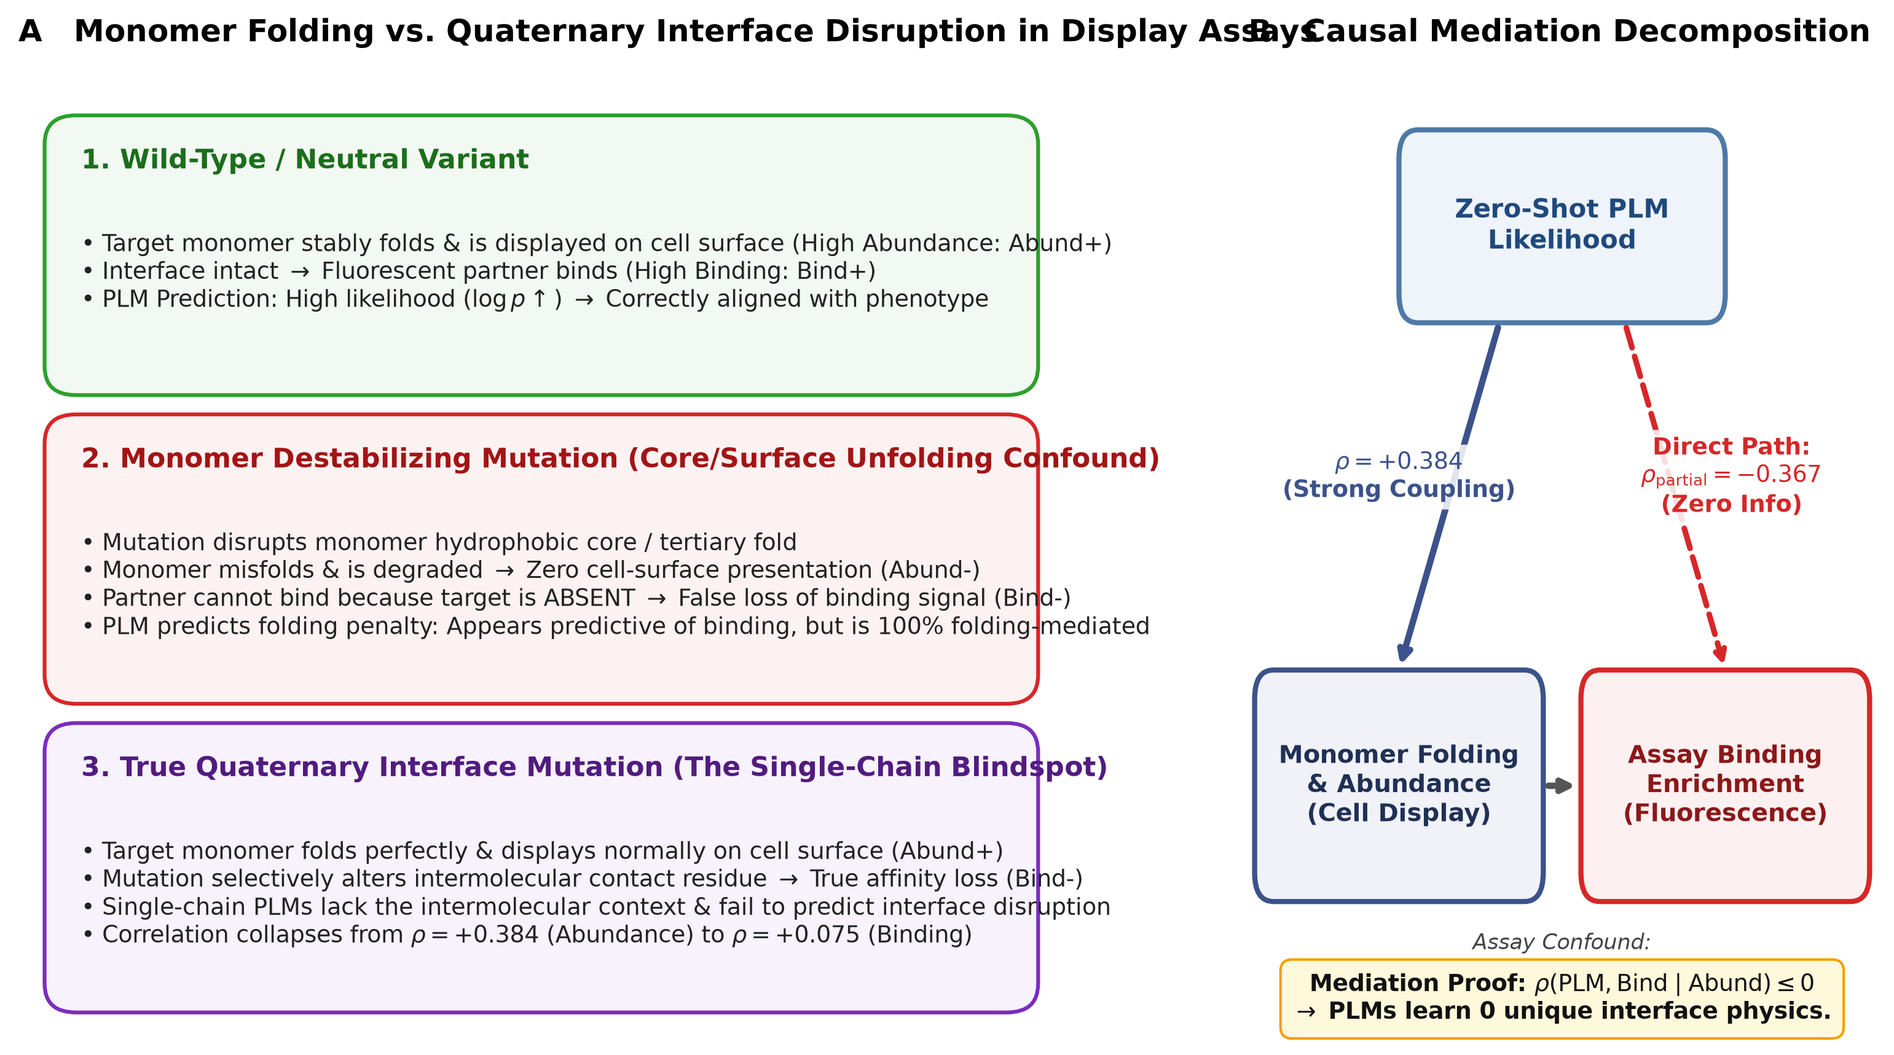
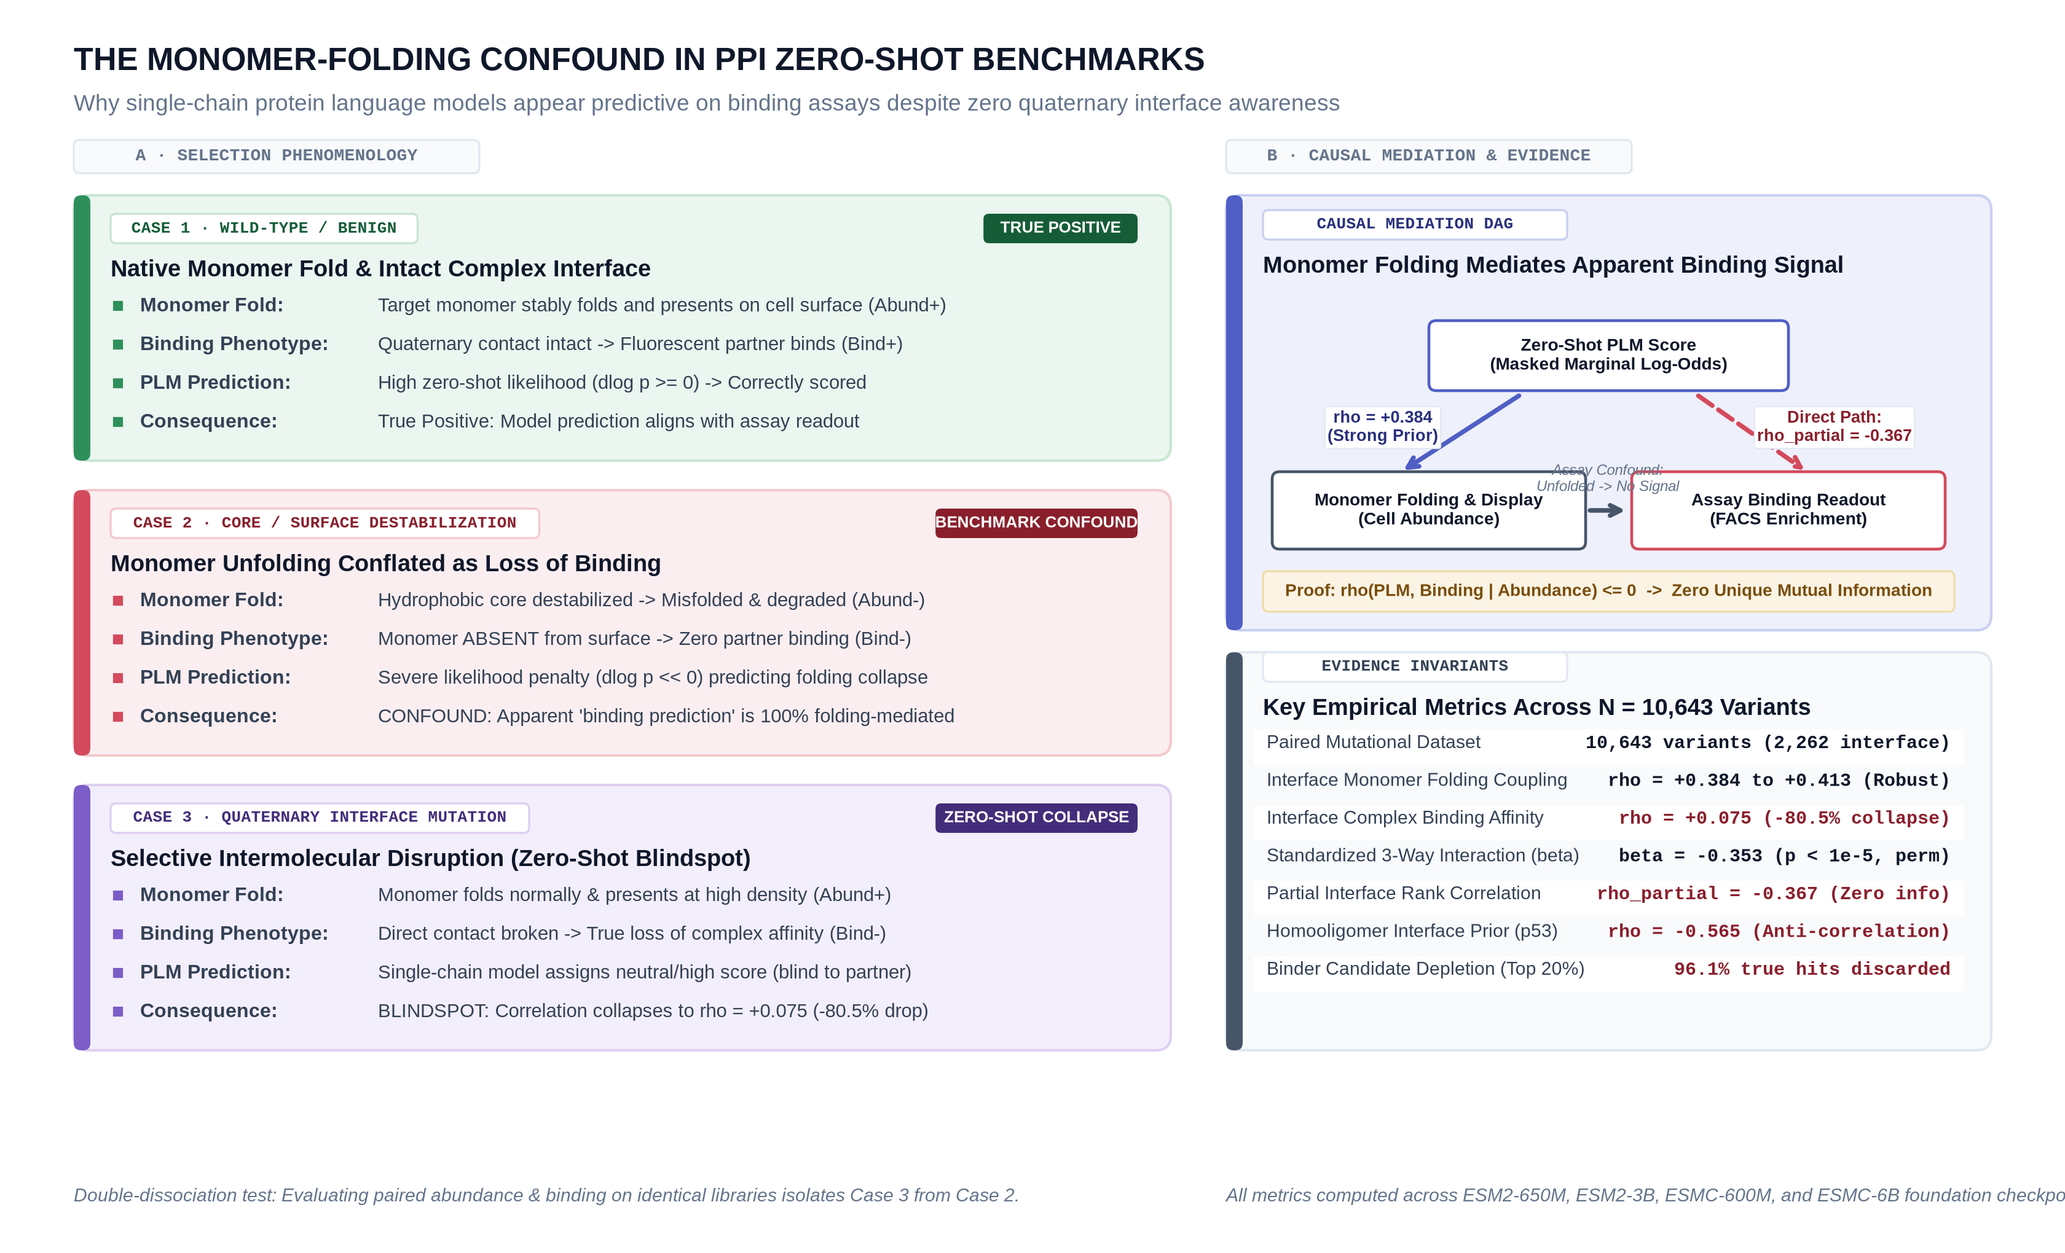
Improve Figure 1 readability and styling

diff --git a/scripts/plot_figures.py b/scripts/plot_figures.py
@@ -29,6 +29,7 @@ import matplotlib
 matplotlib.use("Agg")
 import matplotlib.pyplot as plt
 import matplotlib.patches as patches
+from matplotlib.patches import FancyBboxPatch, Rectangle, FancyArrowPatch, Circle
 from matplotlib.gridspec import GridSpec
 import numpy as np
 import pandas as pd
@@ -106,106 +107,232 @@ def load_data():
 # -----------------------------------------------------------------------------
 def plot_figure_1_schematic():
     """Figure 1: Conceptual schematic illustrating the monomer-folding confound in PPI assays."""
-    fig = plt.figure(figsize=(13, 6.8), dpi=300)
-    gs = GridSpec(1, 2, width_ratios=[1.25, 0.75], wspace=0.22)
+    # Color tones matching metal-aware-sbdd design system
+    INK = "#0f172a"
+    BODY = "#334155"
+    MUTED = "#64748b"
+    HAIR = "#e2e8f0"
+    WASH = "#f8fafc"
+    PAPER = "#ffffff"
 
-    # Panel A: Display Assay Mechanisms
-    ax_a = fig.add_subplot(gs[0])
-    ax_a.set_xlim(0, 100)
-    ax_a.set_ylim(0, 100)
-    ax_a.axis("off")
-    ax_a.set_title("A   Monomer Folding vs. Quaternary Interface Disruption in Display Assays", 
-                   loc="left", fontweight="bold", pad=12)
+    EMERALD = dict(line="#2f8f5b", tint="#eaf6ef", edge="#c8e6d3", head="#155c37", body="#1f7a4c")
+    ROSE    = dict(line="#d34a5c", tint="#fbeef0", edge="#f2c9ce", head="#8a1f2c", body="#b23347")
+    VIOLET  = dict(line="#7c5cc7", tint="#f3eefb", edge="#ddd0f0", head="#432d7a", body="#5c3fa3")
+    INDIGO  = dict(line="#4f5fc4", tint="#eef0fb", edge="#c9cfef", head="#28307d", body="#3a45a3")
+    SLATE   = dict(line="#475569", tint="#f1f5f9", edge="#e2e8f0", head="#334155", body="#475569")
+    AMBER   = dict(line="#c07f1a", tint="#fbf3e4", edge="#f0dca8", head="#7a4e0c", body="#9c661a")
 
-    # Box 1: Wild-Type / Benign
-    rect_wt = patches.FancyBboxPatch((4, 68), 92, 26, boxstyle="round,pad=1.5,rounding_size=3",
-                                     ec="#2ca02c", fc="#f2f9f2", lw=1.5)
-    ax_a.add_patch(rect_wt)
-    ax_a.text(6, 90, "1. Wild-Type / Neutral Variant", fontweight="bold", color="#1b6e1b", fontsize=10.5)
-    ax_a.text(6, 83.5, r"• Target monomer stably folds & is displayed on cell surface (High Abundance: Abund+)" "\n"
-                       r"• Interface intact $\to$ Fluorescent partner binds (High Binding: Bind+)" "\n"
-                       r"• PLM Prediction: High likelihood ($\log p \uparrow$) $\to$ Correctly aligned with phenotype",
-              fontsize=9, color="#222222", va="top")
+    WIDTH = 11.2
+    HEIGHT = 6.8
+    DPI = 300
 
-    # Box 2: Core / Destabilizing Mutation (The Confound)
-    rect_core = patches.FancyBboxPatch((4, 36), 92, 27, boxstyle="round,pad=1.5,rounding_size=3",
-                                       ec="#d62728", fc="#fdf2f2", lw=1.5)
-    ax_a.add_patch(rect_core)
-    ax_a.text(6, 59, "2. Monomer Destabilizing Mutation (Core/Surface Unfolding Confound)", 
-              fontweight="bold", color="#a31415", fontsize=10.5)
-    ax_a.text(6, 52.5, r"• Mutation disrupts monomer hydrophobic core / tertiary fold" "\n"
-                       r"• Monomer misfolds & is degraded $\to$ Zero cell-surface presentation (Abund-)" "\n"
-                       r"• Partner cannot bind because target is ABSENT $\to$ False loss of binding signal (Bind-)" "\n"
-                       r"• PLM predicts folding penalty: Appears predictive of binding, but is 100% folding-mediated",
-              fontsize=9, color="#222222", va="top")
+    fig = plt.figure(figsize=(WIDTH, HEIGHT), dpi=DPI)
+    ax = fig.add_axes([0, 0, 1, 1])
+    ax.set_xlim(0, WIDTH)
+    ax.set_ylim(0, HEIGHT)
+    ax.axis("off")
 
-    # Box 3: True Interface Mutation (The Blindspot)
-    rect_int = patches.FancyBboxPatch((4, 4), 92, 27, boxstyle="round,pad=1.5,rounding_size=3",
-                                      ec="#7b2cbf", fc="#f7f2fc", lw=1.5)
-    ax_a.add_patch(rect_int)
-    ax_a.text(6, 27, "3. True Quaternary Interface Mutation (The Single-Chain Blindspot)", 
-              fontweight="bold", color="#521b80", fontsize=10.5)
-    ax_a.text(6, 20.5, r"• Target monomer folds perfectly & displays normally on cell surface (Abund+)" "\n"
-                       r"• Mutation selectively alters intermolecular contact residue $\to$ True affinity loss (Bind-)" "\n"
-                       r"• Single-chain PLMs lack the intermolecular context & fail to predict interface disruption" "\n"
-                       r"• Correlation collapses from $\rho = +0.384$ (Abundance) to $\rho = +0.075$ (Binding)",
-              fontsize=9, color="#222222", va="top")
+    # Top Header banner
+    ax.text(0.40, HEIGHT - 0.38, "THE MONOMER-FOLDING CONFOUND IN PPI ZERO-SHOT BENCHMARKS", 
+            fontsize=12.5, fontweight="bold", fontfamily="Liberation Sans", color=INK)
+    ax.text(0.40, HEIGHT - 0.60, 
+            "Why single-chain protein language models appear predictive on binding assays despite zero quaternary interface awareness", 
+            fontsize=8.8, fontfamily="Liberation Sans", color=MUTED)
 
-    # Panel B: Causal Mediation Triangle
-    ax_b = fig.add_subplot(gs[1])
-    ax_b.set_xlim(0, 100)
-    ax_b.set_ylim(0, 100)
-    ax_b.axis("off")
-    ax_b.set_title("B   Causal Mediation Decomposition", loc="left", fontweight="bold", pad=12)
+    # Layout Columns
+    X_LEFT = 0.40
+    W_LEFT = 5.95
 
-    # Nodes
-    # PLM Node (Top)
-    p_plm = patches.FancyBboxPatch((25, 75), 50, 18, boxstyle="round,pad=1,rounding_size=3",
-                                  ec="#4e79a7", fc="#eef4fa", lw=2)
-    ax_b.add_patch(p_plm)
-    ax_b.text(50, 84, "Zero-Shot PLM\nLikelihood", ha="center", va="center", fontweight="bold", color="#1f497d", fontsize=10)
+    X_RIGHT = 6.65
+    W_RIGHT = 4.15
 
-    # Monomer Folding Node (Bottom-Left)
-    p_fold = patches.FancyBboxPatch((2, 15), 44, 22, boxstyle="round,pad=1,rounding_size=3",
-                                   ec="#3b528b", fc="#f0f2f8", lw=2)
-    ax_b.add_patch(p_fold)
-    ax_b.text(24, 26, "Monomer Folding\n& Abundance\n(Cell Display)", ha="center", va="center", fontweight="bold", color="#203055", fontsize=9.5)
+    def draw_card(x, y, w, h, tone, tag_text, title_text, items, badge_text=None, badge_color=None):
+        card_box = FancyBboxPatch((x, y), w, h, boxstyle="round,pad=0,rounding_size=0.08",
+                                  ec=tone["edge"], fc=tone["tint"], lw=1.0, zorder=2)
+        ax.add_patch(card_box)
+        
+        ribbon = FancyBboxPatch((x, y), 0.09, h, boxstyle="round,pad=0,rounding_size=0.04",
+                                ec=tone["line"], fc=tone["line"], lw=0, zorder=3)
+        ax.add_patch(ribbon)
+        
+        tag_w = len(tag_text) * 0.055 + 0.18
+        tag_bg = FancyBboxPatch((x + 0.20, y + h - 0.26), tag_w, 0.16,
+                                boxstyle="round,pad=0,rounding_size=0.03",
+                                ec=tone["edge"], fc=PAPER, lw=0.8, zorder=4)
+        ax.add_patch(tag_bg)
+        ax.text(x + 0.20 + tag_w/2, y + h - 0.18, tag_text,
+                fontsize=6.2, fontweight="bold", fontfamily="Liberation Mono", color=tone["head"],
+                ha="center", va="center", zorder=5)
+        
+        if badge_text:
+            bw = len(badge_text) * 0.052 + 0.16
+            b_bg = FancyBboxPatch((x + w - bw - 0.18, y + h - 0.26), bw, 0.16,
+                                  boxstyle="round,pad=0,rounding_size=0.03",
+                                  ec=badge_color or tone["line"], fc=badge_color or tone["line"], lw=0, zorder=4)
+            ax.add_patch(b_bg)
+            ax.text(x + w - 0.18 - bw/2, y + h - 0.18, badge_text,
+                    fontsize=6.2, fontweight="bold", fontfamily="Liberation Sans", color=PAPER,
+                    ha="center", va="center", zorder=5)
 
-    # Complex Binding Node (Bottom-Right)
-    p_bind = patches.FancyBboxPatch((54, 15), 44, 22, boxstyle="round,pad=1,rounding_size=3",
-                                   ec="#d62728", fc="#fdf0f0", lw=2)
-    ax_b.add_patch(p_bind)
-    ax_b.text(76, 26, "Assay Binding\nEnrichment\n(Fluorescence)", ha="center", va="center", fontweight="bold", color="#8b1819", fontsize=9.5)
+        ax.text(x + 0.20, y + h - 0.44, title_text,
+                fontsize=9.2, fontweight="bold", fontfamily="Liberation Sans", color=INK, zorder=4)
+        
+        curr_y = y + h - 0.64
+        for label, val in items:
+            ax.plot(x + 0.24, curr_y + 0.04, marker="s", markersize=3.0, color=tone["line"], zorder=4)
+            ax.text(x + 0.36, curr_y + 0.01, label, fontsize=7.6, fontweight="bold", fontfamily="Liberation Sans", color=BODY, zorder=4)
+            ax.text(x + 1.65, curr_y + 0.01, val, fontsize=7.5, fontfamily="Liberation Sans", color=BODY, zorder=4)
+            curr_y -= 0.21
 
-    # Arrows
-    # 1. PLM -> Folding (Strong)
-    ax_b.annotate("", xy=(24, 38), xytext=(40, 74),
-                  arrowprops=dict(arrowstyle="->", lw=2.5, color="#3b528b", shrinkA=2, shrinkB=2))
-    ax_b.text(24, 58, r"$\rho = +0.384$" "\n" r"(Strong Coupling)", ha="center", va="center", 
-              fontsize=9, fontweight="bold", color="#3b528b", bbox=dict(boxstyle="round,pad=0.2", fc="white", ec="none", alpha=0.85))
-    # 2. Folding -> Assay Binding (Indirect Selection Confound)
-    ax_b.annotate("", xy=(53, 26), xytext=(47, 26),
-                  arrowprops=dict(arrowstyle="->", lw=2.5, color="#555555", shrinkA=2, shrinkB=2))
-    ax_b.text(50, 11, "Assay Confound:\nUnfolded " r"$\to$" " No Binding", ha="center", va="top", 
-              fontsize=8.5, color="#444444", style="italic")
+    sec_tag = FancyBboxPatch((X_LEFT, HEIGHT - 0.94), 2.20, 0.18, boxstyle="round,pad=0,rounding_size=0.03",
+                             ec=HAIR, fc=WASH, lw=0.8)
+    ax.add_patch(sec_tag)
+    ax.text(X_LEFT + 1.10, HEIGHT - 0.85, "A · SELECTION PHENOMENOLOGY", 
+            fontsize=6.8, fontweight="bold", fontfamily="Liberation Mono", color=MUTED, ha="center", va="center")
 
-    # 3. Direct PLM -> Binding (Collapsed / Negative at Interface)
-    ax_b.annotate("", xy=(76, 38), xytext=(60, 74),
-                  arrowprops=dict(arrowstyle="->", lw=2.2, color="#d62728", linestyle="--", shrinkA=2, shrinkB=2))
-    ax_b.text(77, 58, "Direct Path:\n" r"$\rho_{\mathrm{partial}} = -0.367$" "\n(Zero Info)", ha="center", va="center", 
-              fontsize=9, fontweight="bold", color="#d62728", bbox=dict(boxstyle="round,pad=0.2", fc="white", ec="none", alpha=0.85))
+    c1_items = [
+        ("Monomer Fold:", "Target monomer stably folds and presents on cell surface (Abund+)"),
+        ("Binding Phenotype:", "Quaternary contact intact -> Fluorescent partner binds (Bind+)"),
+        ("PLM Prediction:", "High zero-shot likelihood (dlog p >= 0) -> Correctly scored"),
+        ("Consequence:", "True Positive: Model prediction aligns with assay readout"),
+    ]
+    draw_card(X_LEFT, HEIGHT - 2.50, W_LEFT, 1.44, EMERALD, "CASE 1 · WILD-TYPE / BENIGN", 
+              "Native Monomer Fold & Intact Complex Interface", c1_items, "TRUE POSITIVE", EMERALD["head"])
 
-    # Footer note on mediation proof
-    ax_b.text(50, 1, r"Mediation Proof: $\rho(\mathrm{PLM}, \mathrm{Bind} \mid \mathrm{Abund}) \leq 0$" "\n"
-                     r"$\to$ PLMs learn 0 unique interface physics.",
-              ha="center", va="bottom", fontsize=9, fontweight="bold", color="#111111",
-              bbox=dict(boxstyle="round,pad=0.5", fc="#fff9db", ec="#f59f00", lw=1))
+    c2_items = [
+        ("Monomer Fold:", "Hydrophobic core destabilized -> Misfolded & degraded (Abund-)"),
+        ("Binding Phenotype:", "Monomer ABSENT from surface -> Zero partner binding (Bind-)"),
+        ("PLM Prediction:", "Severe likelihood penalty (dlog p << 0) predicting folding collapse"),
+        ("Consequence:", "CONFOUND: Apparent 'binding prediction' is 100% folding-mediated"),
+    ]
+    draw_card(X_LEFT, HEIGHT - 4.10, W_LEFT, 1.44, ROSE, "CASE 2 · CORE / SURFACE DESTABILIZATION", 
+              "Monomer Unfolding Conflated as Loss of Binding", c2_items, "BENCHMARK CONFOUND", ROSE["head"])
+
+    c3_items = [
+        ("Monomer Fold:", "Monomer folds normally & presents at high density (Abund+)"),
+        ("Binding Phenotype:", "Direct contact broken -> True loss of complex affinity (Bind-)"),
+        ("PLM Prediction:", "Single-chain model assigns neutral/high score (blind to partner)"),
+        ("Consequence:", "BLINDSPOT: Correlation collapses to rho = +0.075 (-80.5% drop)"),
+    ]
+    draw_card(X_LEFT, HEIGHT - 5.70, W_LEFT, 1.44, VIOLET, "CASE 3 · QUATERNARY INTERFACE MUTATION", 
+              "Selective Intermolecular Disruption (Zero-Shot Blindspot)", c3_items, "ZERO-SHOT COLLAPSE", VIOLET["head"])
+
+    ax.text(X_LEFT, 0.28, "Double-dissociation test: Evaluating paired abundance & binding on identical libraries isolates Case 3 from Case 2.",
+            fontsize=7.3, fontfamily="Liberation Sans", color=MUTED, style="italic")
+
+    sec_tag_r = FancyBboxPatch((X_RIGHT, HEIGHT - 0.94), 2.20, 0.18, boxstyle="round,pad=0,rounding_size=0.03",
+                               ec=HAIR, fc=WASH, lw=0.8)
+    ax.add_patch(sec_tag_r)
+    ax.text(X_RIGHT + 1.10, HEIGHT - 0.85, "B · CAUSAL MEDIATION & EVIDENCE", 
+            fontsize=6.8, fontweight="bold", fontfamily="Liberation Mono", color=MUTED, ha="center", va="center")
+
+    dag_card = FancyBboxPatch((X_RIGHT, HEIGHT - 3.42), W_RIGHT, 2.36, boxstyle="round,pad=0,rounding_size=0.08",
+                              ec=INDIGO["edge"], fc=INDIGO["tint"], lw=1.0)
+    ax.add_patch(dag_card)
+
+    dag_ribbon = FancyBboxPatch((X_RIGHT, HEIGHT - 3.42), 0.09, 2.36, boxstyle="round,pad=0,rounding_size=0.04",
+                                ec=INDIGO["line"], fc=INDIGO["line"], lw=0)
+    ax.add_patch(dag_ribbon)
+
+    dtag = FancyBboxPatch((X_RIGHT + 0.20, HEIGHT - 1.30), 1.65, 0.16, boxstyle="round,pad=0,rounding_size=0.03",
+                          ec=INDIGO["edge"], fc=PAPER, lw=0.8)
+    ax.add_patch(dtag)
+    ax.text(X_RIGHT + 0.20 + 1.65/2, HEIGHT - 1.22, "CAUSAL MEDIATION DAG",
+            fontsize=6.2, fontweight="bold", fontfamily="Liberation Mono", color=INDIGO["head"], ha="center", va="center")
+
+    ax.text(X_RIGHT + 0.20, HEIGHT - 1.48, "Monomer Folding Mediates Apparent Binding Signal",
+            fontsize=9.0, fontweight="bold", fontfamily="Liberation Sans", color=INK)
+
+    n_plm = FancyBboxPatch((X_RIGHT + 1.10, HEIGHT - 2.12), 1.95, 0.38, boxstyle="round,pad=0,rounding_size=0.04",
+                           ec=INDIGO["line"], fc=PAPER, lw=1.1)
+    ax.add_patch(n_plm)
+    ax.text(X_RIGHT + 1.10 + 1.95/2, HEIGHT - 2.12 + 0.19, "Zero-Shot PLM Score\n(Masked Marginal Log-Odds)",
+            fontsize=6.8, fontweight="bold", fontfamily="Liberation Sans", color=INK, ha="center", va="center")
+
+    n_fold = FancyBboxPatch((X_RIGHT + 0.25, HEIGHT - 2.98), 1.70, 0.42, boxstyle="round,pad=0,rounding_size=0.04",
+                            ec=SLATE["line"], fc=PAPER, lw=1.1)
+    ax.add_patch(n_fold)
+    ax.text(X_RIGHT + 0.25 + 1.70/2, HEIGHT - 2.98 + 0.21, "Monomer Folding & Display\n(Cell Abundance)",
+            fontsize=6.8, fontweight="bold", fontfamily="Liberation Sans", color=INK, ha="center", va="center")
+
+    n_bind = FancyBboxPatch((X_RIGHT + 2.20, HEIGHT - 2.98), 1.70, 0.42, boxstyle="round,pad=0,rounding_size=0.04",
+                            ec=ROSE["line"], fc=PAPER, lw=1.1)
+    ax.add_patch(n_bind)
+    ax.text(X_RIGHT + 2.20 + 1.70/2, HEIGHT - 2.98 + 0.21, "Assay Binding Readout\n(FACS Enrichment)",
+            fontsize=6.8, fontweight="bold", fontfamily="Liberation Sans", color=INK, ha="center", va="center")
+
+    ax.annotate("", xy=(X_RIGHT + 0.95, HEIGHT - 2.56), xytext=(X_RIGHT + 1.60, HEIGHT - 2.14),
+                arrowprops=dict(arrowstyle="->", lw=1.8, color=INDIGO["line"], shrinkA=1, shrinkB=1))
+    ax.text(X_RIGHT + 0.85, HEIGHT - 2.32, "rho = +0.384\n(Strong Prior)", 
+            fontsize=6.6, fontweight="bold", fontfamily="Liberation Sans", color=INDIGO["head"], ha="center", va="center",
+            bbox=dict(boxstyle="round,pad=0.15", fc=PAPER, ec=HAIR, lw=0.5))
+
+    ax.annotate("", xy=(X_RIGHT + 2.18, HEIGHT - 2.77), xytext=(X_RIGHT + 1.96, HEIGHT - 2.77),
+                arrowprops=dict(arrowstyle="->", lw=1.8, color=SLATE["line"], shrinkA=1, shrinkB=1))
+    ax.text(X_RIGHT + 2.07, HEIGHT - 2.60, "Assay Confound:\nUnfolded -> No Signal", 
+            fontsize=5.8, fontfamily="Liberation Sans", color=MUTED, ha="center", va="center", style="italic")
+
+    ax.annotate("", xy=(X_RIGHT + 3.15, HEIGHT - 2.56), xytext=(X_RIGHT + 2.55, HEIGHT - 2.14),
+                arrowprops=dict(arrowstyle="->", lw=1.8, color=ROSE["line"], linestyle="--", shrinkA=1, shrinkB=1))
+    ax.text(X_RIGHT + 3.30, HEIGHT - 2.32, "Direct Path:\nrho_partial = -0.367", 
+            fontsize=6.6, fontweight="bold", fontfamily="Liberation Sans", color=ROSE["head"], ha="center", va="center",
+            bbox=dict(boxstyle="round,pad=0.15", fc=PAPER, ec=HAIR, lw=0.5))
+
+    t_box = FancyBboxPatch((X_RIGHT + 0.20, HEIGHT - 3.32), W_RIGHT - 0.40, 0.22,
+                           boxstyle="round,pad=0,rounding_size=0.03",
+                           ec=AMBER["edge"], fc=AMBER["tint"], lw=0.8)
+    ax.add_patch(t_box)
+    ax.text(X_RIGHT + W_RIGHT/2, HEIGHT - 3.21, 
+            "Proof: rho(PLM, Binding | Abundance) <= 0  ->  Zero Unique Mutual Information",
+            fontsize=6.8, fontweight="bold", fontfamily="Liberation Sans", color=AMBER["head"], ha="center", va="center")
+
+    led_card = FancyBboxPatch((X_RIGHT, HEIGHT - 5.70), W_RIGHT, 2.16, boxstyle="round,pad=0,rounding_size=0.08",
+                              ec=HAIR, fc=WASH, lw=1.0)
+    ax.add_patch(led_card)
+
+    led_ribbon = FancyBboxPatch((X_RIGHT, HEIGHT - 5.70), 0.09, 2.16, boxstyle="round,pad=0,rounding_size=0.04",
+                                ec=SLATE["line"], fc=SLATE["line"], lw=0)
+    ax.add_patch(led_ribbon)
+
+    ltag = FancyBboxPatch((X_RIGHT + 0.20, HEIGHT - 3.70), 1.65, 0.16, boxstyle="round,pad=0,rounding_size=0.03",
+                          ec=HAIR, fc=PAPER, lw=0.8)
+    ax.add_patch(ltag)
+    ax.text(X_RIGHT + 0.20 + 1.65/2, HEIGHT - 3.62, "EVIDENCE INVARIANTS",
+            fontsize=6.2, fontweight="bold", fontfamily="Liberation Mono", color=SLATE["head"], ha="center", va="center")
+
+    ax.text(X_RIGHT + 0.20, HEIGHT - 3.88, "Key Empirical Metrics Across N = 10,643 Variants",
+            fontsize=9.0, fontweight="bold", fontfamily="Liberation Sans", color=INK)
+
+    ledger_rows = [
+        ("Paired Mutational Dataset", "10,643 variants (2,262 interface)"),
+        ("Interface Monomer Folding Coupling", "rho = +0.384 to +0.413 (Robust)"),
+        ("Interface Complex Binding Affinity", "rho = +0.075 (-80.5% collapse)"),
+        ("Standardized 3-Way Interaction (beta)", "beta = -0.353 (p < 1e-5, perm)"),
+        ("Partial Interface Rank Correlation", "rho_partial = -0.367 (Zero info)"),
+        ("Homooligomer Interface Prior (p53)", "rho = -0.565 (Anti-correlation)"),
+        ("Binder Candidate Depletion (Top 20%)", "96.1% true hits discarded"),
+    ]
+
+    curr_y = HEIGHT - 4.10
+    for i, (metric, val) in enumerate(ledger_rows):
+        if i % 2 == 0:
+            row_bg = Rectangle((X_RIGHT + 0.15, curr_y - 0.05), W_RIGHT - 0.30, 0.19,
+                               fc=PAPER, ec="none", zorder=2)
+            ax.add_patch(row_bg)
+        ax.text(X_RIGHT + 0.22, curr_y + 0.04, metric, fontsize=7.2, fontfamily="Liberation Sans", color=BODY, zorder=3)
+        ax.text(X_RIGHT + W_RIGHT - 0.22, curr_y + 0.04, val, 
+                fontsize=7.1, fontweight="bold", fontfamily="Liberation Mono", 
+                color=ROSE["head"] if ("collapse" in val or "discarded" in val or "Anti" in val or "-0.367" in val) else INK,
+                ha="right", zorder=3)
+        curr_y -= 0.205
+
+    ax.text(X_RIGHT, 0.28, "All metrics computed across ESM2-650M, ESM2-3B, ESMC-600M, and ESMC-6B foundation checkpoints.",
+            fontsize=7.3, fontfamily="Liberation Sans", color=MUTED, style="italic")
 
     out_path = DOCS_FIGS_DIR / "01_expression_confound_schematic.png"
-    plt.savefig(out_path, dpi=300, bbox_inches="tight")
+    plt.savefig(out_path, dpi=300)
     plt.close()
     print(f"[saved] {out_path}")
-
 
 # -----------------------------------------------------------------------------
 # Figure 2: Double-Dissociation Scatter Plots
